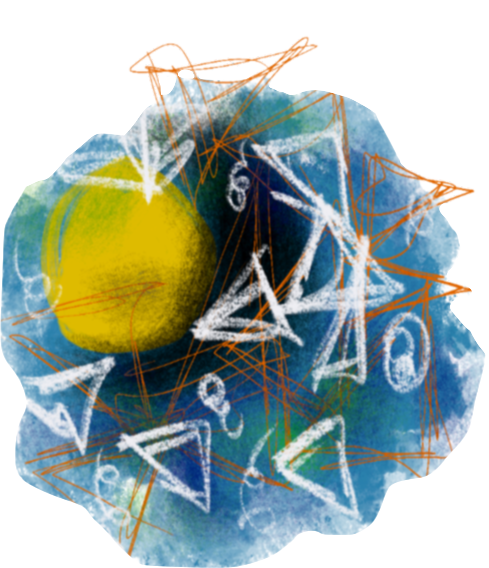
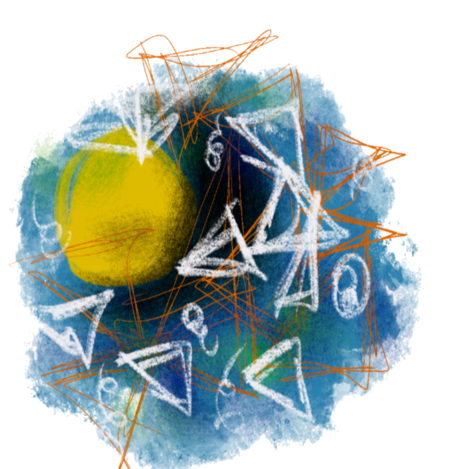
Changed assets

diff --git a/sketch.js b/sketch.js
@@ -64,7 +64,7 @@ function setup() {
 
 // Very simple, sets the background color and calls your state machine function
 function draw() {
-  background(192);
+  background(0,100,100);
 
   // will call your state machine function
   drawFunction();
